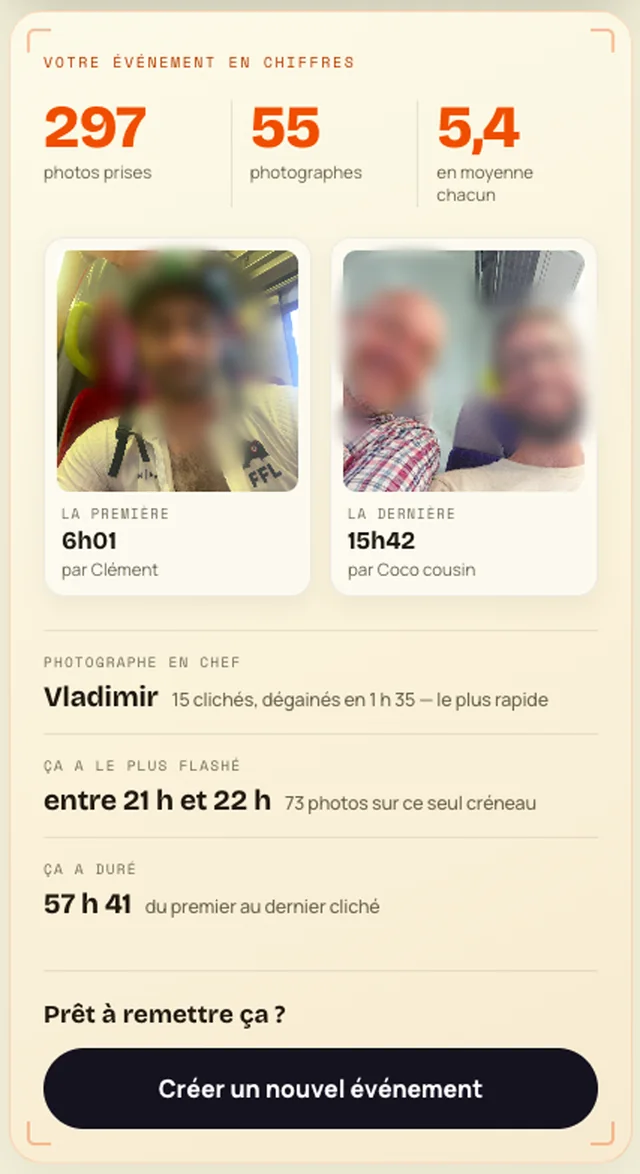
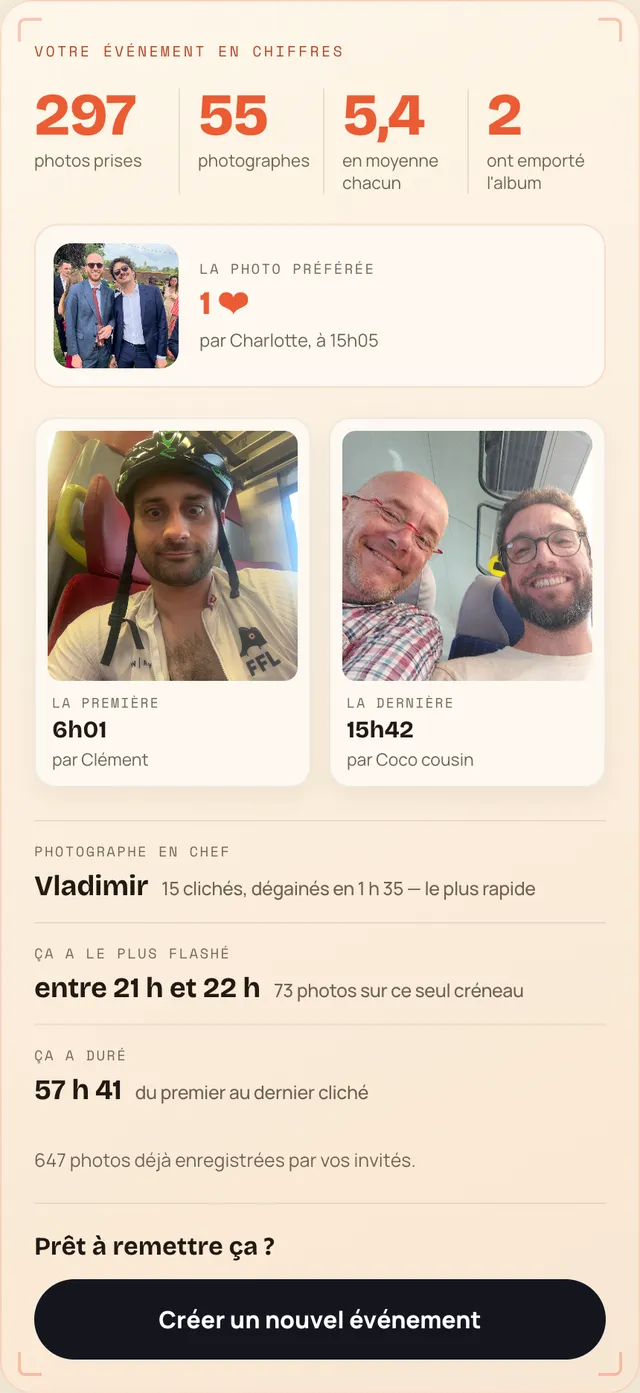
feat(accueil): montrer de vraies photos, pas un viseur noir
Le bandeau du haut affichait un appareil au viseur vide : rien de ce que
le produit fabrique n'y était visible. Il montre maintenant deux écrans —
la photo qu'on prend, l'album révélé derrière — capturés en plein écran
dans le produit, à la silhouette d'un téléphone d'aujourd'hui.

Les trois étapes suivent : l'appareil entier plutôt qu'un bout de bouton,
et la galerie réelle à la place de photos floutées. Le bilan de fin de
soirée est repris de même, et à jour (photo préférée, albums emportés).

Vignettes un peu plus hautes (188 → 230 px) pour que ces images entrent
sans être rognées.

diff --git a/src/app/page.js b/src/app/page.js
@@ -14,8 +14,8 @@ export const metadata = {
 // pose sur les tables, le déclencheur, puis la galerie une fois révélée.
 const STEPS = [
   { img: '/accueil/affiche.webp', pos: 'center 38%', alt: "Affiche à imprimer avec le QR code de l'événement", title: 'Scannez le QR', sub: "Vos invités ouvrent l'appareil dans leur navigateur. Aucune appli à installer." },
-  { img: '/accueil/declencheur.webp', pos: 'center 38%', alt: "Le déclencheur de l'appareil photo et le compteur de poses restantes", title: 'Prenez vos clichés', sub: 'Un nombre limité de photos par invité. Chaque cliché compte vraiment.' },
-  { img: '/accueil/galerie.webp', pos: 'center top', alt: "La galerie de l'événement une fois les photos révélées", title: 'La révélation', sub: 'Tout se développe et se révèle après la fête, pour tout le monde d\'un coup.' },
+  { img: '/accueil/declencheur.webp', pos: 'center center', alt: "L'appareil photo ouvert dans le navigateur : le viseur, le compteur de poses et le déclencheur", title: 'Prenez vos clichés', sub: 'Un nombre limité de photos par invité. Chaque cliché compte vraiment.' },
+  { img: '/accueil/revelation.webp', pos: 'center center', alt: "La galerie de l'événement une fois les photos révélées", title: 'La révélation', sub: 'Tout se développe et se révèle après la fête, pour tout le monde d\'un coup.' },
 ]
 
 // Ce que l'organisateur garde sous contrôle. Deux testeurs ont posé la question
@@ -89,11 +89,19 @@ export default function Home() {
               Mariages · Anniversaires · Baptêmes · EVJF · Vacances · Séminaires
             </div>
           </div>
-          {/* Voir l'appareil vaut mieux que le décrire : c'est la seule image
-              chargée tout de suite, les autres attendent le défilement. */}
-          <div className="phone phone-tilt">
-            <img src="/accueil/appareil.webp" width="640" height="1385"
-              alt="L'appareil photo jetable ouvert dans le navigateur : viseur, compteur de poses et déclencheur." />
+          {/* Voir l'appareil vaut mieux que le décrire — et un viseur vide ne
+              vend rien : ces deux écrans montrent une vraie soirée, de la photo
+              prise jusqu'à l'album révélé. Seules images chargées tout de suite,
+              les autres attendent le défilement. */}
+          <div className="hero-duo">
+            <div className="phone phone-avant">
+              <img src="/accueil/appareil-photo.webp" width="640" height="1385"
+                alt="L'appareil photo jetable ouvert dans le navigateur : un groupe d'invités dans le viseur, le compteur de poses et le déclencheur." />
+            </div>
+            <div className="phone phone-arriere">
+              <img src="/accueil/galerie-photos.webp" width="640" height="1385"
+                alt="L'album révélé après la fête : les photos de tous les invités réunies dans une galerie." />
+            </div>
           </div>
         </section>
 
@@ -150,8 +158,8 @@ export default function Home() {
         <section className="section">
           <div className="split">
             <div className="phone phone-tilt">
-              <img src="/accueil/bilan.webp" width="640" height="1174" loading="lazy"
-                alt="Le bilan de l'événement : nombre de photos prises, premier et dernier cliché, photographe le plus rapide." />
+              <img src="/accueil/bilan.webp" width="640" height="1393" loading="lazy"
+                alt="Le bilan de l'événement : nombre de photos prises, photo préférée, premier et dernier cliché, photographe le plus rapide." />
             </div>
             <div className="split-text">
               <div className="eyebrow-mute" style={{ marginBottom: 10 }}>Et après la fête</div>

diff --git a/src/app/globals.css b/src/app/globals.css
@@ -485,7 +485,7 @@ a.cam-pile:active { transform: scale(.94); }
 /* Le hero passe sur deux colonnes dès qu'il y a la place : le texte à gauche,
    l'appareil photo à droite. Sous 900 px l'appareil repasse sous le texte. */
 .hero-split { display: grid; grid-template-columns: 1fr; gap: 34px; align-items: center; }
-@media (min-width: 900px) { .hero-split { grid-template-columns: 1fr 300px; gap: 50px; } }
+@media (min-width: 900px) { .hero-split { grid-template-columns: 1fr 350px; gap: 50px; } }
 /* Sur téléphone l'appareil passe sous le texte : on le réduit pour qu'il
    reste une illustration et n'occupe pas un écran entier. */
 @media (max-width: 899px) { .hero-split .phone { max-width: 212px; } }
@@ -497,9 +497,18 @@ a.cam-pile:active { transform: scale(.94); }
 .phone img { display: block; width: 100%; height: auto; border-radius: 28px; }
 .phone-tilt { transform: rotate(-2.2deg); }
 
+/* Les deux écrans du hero : l'appareil devant, l'album révélé derrière. La
+   promesse tient alors en un coup d'œil — on photographie ici, on retrouve
+   tout là. Un viseur vide, lui, ne montrait rien du produit. */
+.hero-duo { position: relative; width: 100%; max-width: 350px; margin: 0 auto; aspect-ratio: 300 / 455; }
+.hero-duo .phone { position: absolute; margin: 0; max-width: none; width: 63%; }
+.hero-duo .phone-avant { left: 0; top: 0; z-index: 2; transform: rotate(-3deg); }
+.hero-duo .phone-arriere { right: 0; top: 13%; z-index: 1; transform: rotate(4.5deg); }
+@media (max-width: 899px) { .hero-duo { max-width: 268px; } }
+
 /* Vignettes des trois étapes : hauteur commune, l'image est recadrée dedans
    et s'estompe vers le fond de la carte pour que la coupe ne se voie pas. */
-.step-shot { position: relative; height: 188px; margin-bottom: 16px; border-radius: 14px;
+.step-shot { position: relative; height: 230px; margin-bottom: 16px; border-radius: 14px;
   overflow: hidden; background: var(--line-soft); border: 1px solid var(--line-soft); }
 .step-shot img { width: 100%; height: 100%; object-fit: cover; display: block; }
 .step-shot::after { content: ''; position: absolute; inset: auto 0 0 0; height: 60px;
